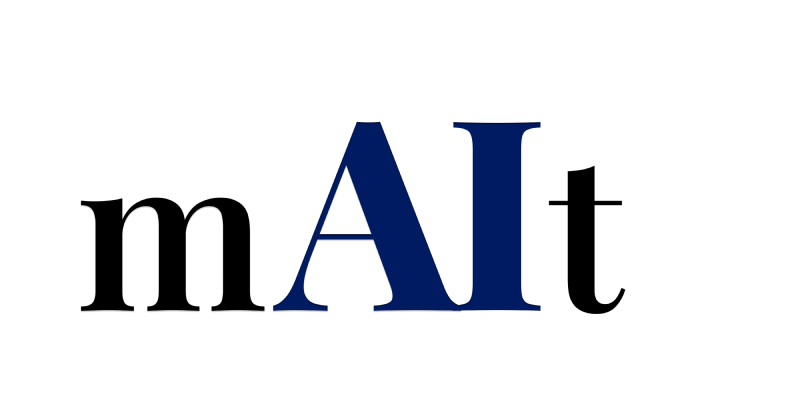
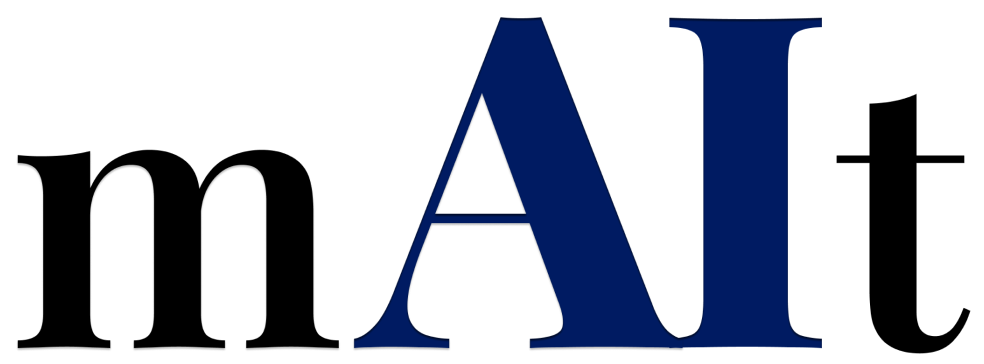
0417_2

diff --git a/web/src/Main.css b/web/src/Main.css
@@ -1,0 +1,120 @@
+.main_cons {
+    margin-top: 5vw;
+    margin-left: 20vw;
+    margin-right: 20vw;
+    padding-bottom: 50px;
+    display: flex;
+    flex-direction: column;
+    text-align: center;
+  }
+
+.mlogo {
+    width: 20vw;
+    height: auto;
+    margin: auto;
+    display: block;
+    filter: drop-shadow(3px 3px 2px rgb(194, 194, 194));
+}
+
+.main-word {
+    margin-top: 20px;
+    margin-left: 70px;
+    font: 200 2.3vw Gmarket Sans, -apple-system, Roboto, Helvetica, sans-serif;
+    color: #000000;
+  }
+
+  .contents {
+    margin-top: 2vw;
+    display: flex;
+    justify-content: space-between;
+  }
+
+  .mcon {
+    display: flex;
+    flex-direction: column;
+    gap: 3vw;
+    text-decoration: none;
+    text-align: center;
+  }
+
+  .mcon1 {
+    text-decoration: none; 
+    font: 440 2.5vw Gmarket Sans, -apple-system, Roboto, Helvetica, sans-serif;
+    color: #000000;
+  }  
+  
+  .divider {
+    background-color: #9b9b9b;
+    height: 1px;
+    margin-top: 28px;
+    width: 80%;
+  }
+  
+  .mcon .main-button {
+    border: none;
+    background-color: #eeeeee;
+    color: #001B62; 
+    cursor: pointer; 
+    display: flex;
+    align-items: center;
+    justify-content: center;
+    width: 17vw;
+    height: 22vh;
+    transition: background-color 0s; 
+    border-radius: 40px;
+    text-decoration: none;
+    line-height: 1.5;
+    filter: drop-shadow(0px 3px 2px rgb(181, 181, 181));
+  }
+  
+  .mcon .main-button:hover {
+    background-color: #001B62; 
+    color: #ffffff;
+  }
+  
+  .news {
+    border: 1px solid rgb(210, 210, 210);
+    width: 30vw;
+    height: 50vh;
+    display: flex;
+    align-items: center;
+    justify-content: center;
+    border-radius: 40px;
+    display: flex;
+    margin-left: 0px;
+  }
+  
+  .news-title {
+    font: 440 3.3vw Gmarket Sans, -apple-system, Roboto, Helvetica, sans-serif;
+    color: #000000;
+  }
+  
+  .news-description {
+    margin-top: 20px;
+    font: 200 1.6vw Gmarket Sans, -apple-system, Roboto, Helvetica, sans-serif;
+  }
+  
+  .news-inner {
+    line-height: 3;
+    margin-top: 30px;
+    text-decoration: none; 
+    font: 100 2.5vw Gmarket Sans, -apple-system, Roboto, Helvetica, sans-serif;
+  }
+  
+  .news-inner .button {
+    background-color: #bdbdbd00;
+    color: #001B62; 
+    border: none; 
+    padding: 10px; 
+    font-size: 16px;
+    cursor: pointer; 
+    transition: background-color 0s; 
+    border-radius: 20px; 
+    text-decoration: none; 
+    display: inline-block;
+  }
+  
+  .news-inner .button:hover {
+    background-color: #001B62;
+    color: #ffffff;
+  }

diff --git a/web/src/Header.css b/web/src/Header.css
@@ -1,9 +1,10 @@
 .nav-item button {
     background-color: #007bff00;
-    color: #000000;
+    color: #454545;
     border: none;
-    padding: 10px 20px;
-    font: 400 1.6vw Gmarket Sans, -apple-system, Roboto, Helvetica, sans-serif;
+    width: 14vw;
+    height: 2.7vw;
+    font: 200 1.6vw Gmarket Sans, -apple-system, Roboto, Helvetica, sans-serif;
     cursor: pointer;
     transition: background-color 0s; 
     border-radius: 20px;
@@ -13,46 +14,75 @@
   }
   
   .nav-item button:hover {
+    font: 400 1.6vw Gmarket Sans, -apple-system, Roboto, Helvetica, sans-serif;
     background-color: #001B62; 
     color: #ffffff;
   }
 
-  .chatbot button {
-    background-color: #001c6217; /* 버튼 배경색 */
-    color: #001c62; /* 텍스트 색상 */
+
+  .nav-item2 button {
+    background-color: #007bff00;
+    color: #000000;
     border: none;
-    padding: 10px 20px; 
-    font: 480 1.6vw Gmarket Sans, -apple-system, Roboto, Helvetica, sans-serif;
+    width: 10vw;
+    height: 2.7vw;
+    font: 200 1.6vw Gmarket Sans, -apple-system, Roboto, Helvetica, sans-serif;
+    cursor: pointer;
+    transition: background-color 0s; 
+    border-radius: 20px;
+    text-decoration: none;
+    display: inline-block;
+    
+  }
+  
+  .nav-item2 button:hover {
+    font: 400 1.6vw Gmarket Sans, -apple-system, Roboto, Helvetica, sans-serif;
+    background-color: #001B62; 
+    color: #ffffff;
+  }
+
+
+  .chatbot button {
+    background-color: #001c6217; 
+    color: #001c62; 
+    width: 23vw;
+    height: 2.7vw;
+    border: none;
+    font: 400 1.6vw Gmarket Sans, -apple-system, Roboto, Helvetica, sans-serif;
     cursor: pointer; 
-    border-radius: 25px; 
-    text-decoration: none; /* 밑줄 제거 */
-    display: inline-block; /* 버튼을 인라인 블록 요소로 표시합니다. */
+    border-radius: 20px; 
+    text-decoration: none; 
+    display: inline-block;
 
   }
 
   .chatbot button:hover{
+    font: 480 1.6vw Gmarket Sans, -apple-system, Roboto, Helvetica, sans-serif;
     background-color: #001c62; 
     color: white;
     
   }
 
   .header {
-    align-self: center;
+    margin-top: 1vw;
+    margin-left : 1vw;
+    margin-bottom: 1vw;
     display: flex;
-    width: 100%;
-    max-width: 1788px;
+    align-items: center;
     justify-content: left;
-    gap: 10px;
+    gap: 20px;
   }
   
   .header-left img {
-    width: 90%;
-    max-width: 272px;
+    width: 7vw;
     height: auto;
+    margin-right:2vw;
+    margin-left: 2vw;
   }
   
   .header-right {
-    margin-top: 4%;
+    align-items: center;
+
     display: flex;
     gap: 10px;
   }

diff --git a/web/src/MainContents2.js b/web/src/MainContents2.js
@@ -1,0 +1,62 @@
+import React from 'react';
+import './Main.css';
+import { Link } from 'react-router-dom';
+import logoImage from './mAIt.png';
+
+
+
+export default function MainContentt() {
+    return (
+      <div className="main_cons">
+        <img
+              loading="lazy"
+              src={logoImage}
+              className="mlogo"
+              alt="MLogo"
+            />
+        <div className="main-word">
+          : 함께 성장하는 친구, 우리의 mAIt🫶
+        </div>
+
+        <div className="contents">
+          <div className="mcon">
+            <Link to="/kiosk" className="mcon1">
+              <div className="main-button">
+                키오스크<br/>체험하기
+              </div>
+            </Link>
+
+            <Link to="/Pages/Generator" className="mcon1">
+              <div className="main-button">
+                이미지<br/>변환하기
+              </div>
+            </Link>
+
+          </div>
+
+
+          <div className="news">
+            <div className="news-title">[ 오늘의 소식 ]</div>
+            <div className="news-description">
+              오늘은 어떤 소식이 있을까요?
+            </div>
+            <div className="divider" />
+            <div className='news-inner'>
+              <Link to="/pages/news" className="newss">
+                <div className="button">
+                  1. 오늘은 우선 이런 소식이 있어요.
+                </div>
+              </Link>
+              <br/>
+              <Link to="/pages/news" className="newss">
+                <div className="button">
+                  2. 그리고 이런 소식도 있어요.
+                </div>
+              </Link>
+            </div>
+          </div>
+
+        </div>
+      </div>
+    );
+  }

diff --git a/web/src/Header.js b/web/src/Header.js
@@ -18,22 +18,21 @@ function Header() {
               src={logoImage}
               className="logo"
               alt="Logo"
-              onClick={() => navigateTo('/')} // 이미지를 클릭하면 홈으로 이동합니다.
+              onClick={() => navigateTo('/')} 
             />
       </div>
       <div className="header-right">
         <Link to="/AboutUs" className="nav-item">
           <button>메이트 알아보기</button>
         </Link>
-        <Link to="/pages/kiosk" className="nav-item">
+        <Link to="/pages/kiosk" className="nav-item2">
           <button>사용 설명서</button>
         </Link>
 
         <Link to="/pages/ChatBot" className='chatbot'>
-          <button>[🤖 여기서 다 물어보세요 🤖]</button>
+          <button>🤖 여기서 다 물어보세요 🤖</button>
         </Link>
       </div>
-      
     </div>
   );
 }

diff --git a/web/src/App.js b/web/src/App.js
@@ -9,19 +9,20 @@ import Output from './Pages/Generator/Output.js';
 
 
 import './App.css';
+import MainContentt from './MainContents2.js';
 
 function App() {
   return (
     <Router>
       <div>
         <Header />
-        <div className="divider" />
+        <div className="hdivider" />
           <Routes>
-            <Route path='/web/src/MainContents.js' element = {<MainContent/>}/>
+            <Route path='/web/src/MainContents2.js' element = {<MainContent/>}/>
           </Routes>
       
         <Routes>
-          <Route path="/" element={<MainContent />} />
+          <Route path="/" element={<MainContentt />} />
           <Route path="/AboutUs" element={<AboutUs/>} />
           <Route path="/Pages/ChatBot" element={<ChatBot/>} />
           <Route path="/Pages/Generator" element={<Generator/>} />

diff --git a/web/src/App.css b/web/src/App.css
@@ -1,38 +1,5 @@
-.App {
-  text-align: center;
-}
-
-.App-logo {
-  height: 40vmin;
-  pointer-events: none;
-}
-
-@media (prefers-reduced-motion: no-preference) {
-  .App-logo {
-    animation: App-logo-spin infinite 20s linear;
-  }
-}
-
-.App-header {
-  background-color: #282c34;
-  min-height: 100vh;
-  display: flex;
-  flex-direction: column;
-  align-items: center;
-  justify-content: center;
-  font-size: calc(10px + 2vmin);
-  color: white;
-}
-
-.App-link {
-  color: #61dafb;
-}
-
-@keyframes App-logo-spin {
-  from {
-    transform: rotate(0deg);
-  }
-  to {
-    transform: rotate(360deg);
-  }
+.hdivider {
+  background-color: #d4d4d4;
+  height: 1px;
+  width: 100%;
 }
